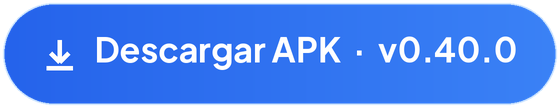
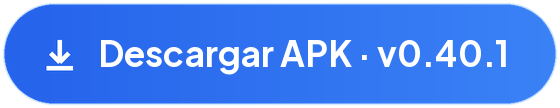
docs(readme): actualizar botón CTA a v0.40.1, novedades completas y guías enlazadas

Changed region(s): [[0.1518, 0.3333, 0.9411, 0.6944]]

diff --git a/README.md b/README.md
@@ -89,10 +89,11 @@ Las actualizaciones conservan los datos siempre que se mantengan el paquete `com
 
 | Área | Qué cambia |
 | --- | --- |
-| **Barra de direcciones, UI y Control del sitio** | Apertura de la barra de direcciones en 1 toque, optimizaciones de Liquid Glass, mejoras en Control del sitio y uso de APIs nativas de Cefrium 0.22.0 ([PR #86](https://github.com/stivencop-lab/Nexo-Browser/pull/86), [PR #87](https://github.com/stivencop-lab/Nexo-Browser/pull/87)). |
-| **Subtítulos en vivo más fiables** | La captura web solicita fragmentos cada 125 ms, conserva el texto parcial mientras llega el definitivo, añade botón **Reintentar** y permite activar la detección de hablantes desde los ajustes ([Guía de subtítulos](docs/DIAGNOSTICO-SUBTITULOS.md)). |
-| **Licencia Apache 2.0 y dependencias al día** | Adopción de **Apache License 2.0** ([PR #88](https://github.com/stivencop-lab/Nexo-Browser/pull/88)), actualización a Gradle `9.9.2`, AGP `9.5.3`, DataStore `1.3.0`, MaterialKolor `6.0.0`, Robolectric `4.18.1` y caché de CI. |
-| **Chromium 158 · Cefrium 0.22.0** | Base de `v0.40` verificada por GPG y SHA-256 ([`cefrium-0.22.0.sha256`](gradle/cefrium-0.22.0.sha256)) con **0 clases** de Google Play services, Firebase ni ML Kit, puente `cefriumQuery` sin polling, selector nativo de archivos y Client Hints completos. |
+| **Barra de direcciones en 1 toque y navegación** | Apertura fiable del teclado al primer toque (sin robo de foco de Chromium), objetivos táctiles ampliados, **historial atrás/adelante por pestaña** (pulsación larga en Atrás/Adelante), **Control del sitio** renovado con almacenamiento real por sitio (`listSiteData`) y optimizaciones de Liquid Glass ([PR #86](https://github.com/stivencop-lab/Nexo-Browser/pull/86), [PR #87](https://github.com/stivencop-lab/Nexo-Browser/pull/87)). |
+| **Subtítulos en vivo más fiables** | Captura web cada 125 ms con control de flujo WebM/Opus intacto, texto parcial conservado mientras llega el definitivo, detección opcional de cambios de hablante, botón **Reintentar** en la hoja rápida de CC y detección nativa de audio (`isPlayingAudio()`) ([Guía de subtítulos](docs/DIAGNOSTICO-SUBTITULOS.md)). |
+| **Acciones nativas de Cefrium 0.22.0** | Barra flotante al seleccionar texto (**Preguntar a Nexo AI**, **Traducir selección** y **Buscar en pestaña nueva** respetando privacidad/Burner), **impresión nativa** (`window.print()`), protección contra fugas WebRTC y alertas de proxy en **Burner**, y detector de pestaña bloqueada. |
+| **Licencia Apache 2.0, dependencias y CI** | Adopción de **Apache License 2.0** ([PR #88](https://github.com/stivencop-lab/Nexo-Browser/pull/88)), actualización a Gradle `9.9.2`, AGP `9.5.3`, DataStore `1.3.0`, MaterialKolor `6.0.0`, Robolectric `4.18.1` y caché de Gradle/Robolectric en GitHub Actions. |
+| **Base Chromium 158 · Cefrium 0.22.0** | Motor verificado por GPG y SHA-256 ([`cefrium-0.22.0.sha256`](gradle/cefrium-0.22.0.sha256)) con **0 clases** de Google Play services, Firebase ni ML Kit, puente `cefriumQuery` sin polling, selector nativo de archivos y Client Hints completos. |
 
 El informe técnico documenta cada cambio respecto al issue `#84`, las pruebas ejecutadas y los **16 límites/problemas verificados** que aún persisten en Cefrium `0.22.0`: [Migración y límites de Cefrium 0.22.0](docs/CEFRIUM-0.22-MIGRACION-Y-LIMITES.md)
 
@@ -180,7 +181,7 @@ El código propio de Nexo Browser se distribuye bajo **Apache License 2.0**. Cef
 
 | Tema | Guías |
 | --- | --- |
-| **v0.40.0 y Cefrium 0.22.0** | [Migración y límites verificados de Cefrium 0.22.0](docs/CEFRIUM-0.22-MIGRACION-Y-LIMITES.md), [Extension Hub](docs/NEXO-EXTENSION-HUB.md), [Arquitectura de Chromium nativo](docs/CHROMIUM-NATIVE-MIGRATION.md) |
+| **v0.40.x y Cefrium 0.22.0** | [Migración y límites verificados de Cefrium 0.22.0](docs/CEFRIUM-0.22-MIGRACION-Y-LIMITES.md), [Extension Hub](docs/NEXO-EXTENSION-HUB.md), [Arquitectura de Chromium nativo](docs/CHROMIUM-NATIVE-MIGRATION.md) |
 | **Interfaz y organización** | [Nexo UI 7.0 (referencia histórica)](docs/NEXO-UI-7.0-LIQUID-CRAFT.md), [Grupos, rutas y Burner](docs/PESTANAS-RED-BURNER.md) |
 | **Navegación y multimedia** | [PhantomShield](docs/PHANTOMSHIELD.md), [Traducción en página](docs/TRADUCCION-EN-LINEA.md), [Audio y estabilidad](docs/ESTABILIDAD-Y-AUDIO-ANDROID.md), [Diagnóstico de subtítulos](docs/DIAGNOSTICO-SUBTITULOS.md) |
 | **IA y datos** | [Nexo AI 5.1](docs/NEXO-AI-5.1.md), [Memoria IA local](docs/IA-MEMORIA.md), [Transferencia de perfil](docs/TRANSFERENCIA-PERFIL.md) |

diff --git a/docs/ACTUALIZACIONES-Y-FIRMA.md b/docs/ACTUALIZACIONES-Y-FIRMA.md
@@ -14,7 +14,7 @@ En Linux puedes verificar el archivo desde la carpeta de descargas.
 sha256sum --ignore-missing -c SHA256SUMS.txt
 ```
 
-En macOS, calcula el hash con `shasum -a 256 Nexo-v0.40.0-arm64-v8a.apk`. En PowerShell, usa `Get-FileHash -Algorithm SHA256 .\Nexo-v0.40.0-arm64-v8a.apk`. Sustituye el nombre del ejemplo por el de tu descarga y compara el resultado con su línea en `SHA256SUMS.txt`.
+En macOS, calcula el hash con `shasum -a 256 Nexo-v0.40.1-arm64-v8a.apk`. En PowerShell, usa `Get-FileHash -Algorithm SHA256 .\Nexo-v0.40.1-arm64-v8a.apk`. Sustituye el nombre del ejemplo por el de tu descarga y compara el resultado con su línea en `SHA256SUMS.txt`.
 
 ## Publicar una versión
 
@@ -42,7 +42,7 @@ La huella pública en [`config/android-signing-certificate.sha256`](../config/an
 python3 tools/verify_apk_signature.py \
   --apksigner "$ANDROID_HOME/build-tools/37.0.0/apksigner" \
   --certificate config/android-signing-certificate.sha256 \
-  /ruta/descargas/Nexo-v0.40.0-arm64-v8a.apk
+  /ruta/descargas/Nexo-v0.40.1-arm64-v8a.apk
 ```
 
 <details>

diff --git a/docs/CEFrium-CI-SETUP.md b/docs/CEFrium-CI-SETUP.md
@@ -8,7 +8,7 @@ Definidos en [`.github/workflows/main.yml`](../.github/workflows/main.yml):
 
 - **JDK 25** (`temurin` 25): el bytecode de `com.cefrium:cefrium-sdk-core:0.22.0` es Java 25 y el plugin `com.cefrium` comprueba la versión del compilador en cada tarea `JavaCompile`.
 - **Android SDK**: `platforms;android-37.2` para compilar, `build-tools;36.0.0` que selecciona AGP, `build-tools;37.0.0` para los verificadores del proyecto y `platform-tools` para ADB. La aplicación apunta a API 35 y requiere Android 10 o posterior (API 29).
-- **Gradle**: wrapper `9.8.2` (`gradle/wrapper/gradle-wrapper.properties`) con AGP `9.5.1` y Kotlin `2.4.10`.
+- **Gradle**: wrapper `9.9.2` (`gradle/wrapper/gradle-wrapper.properties`) con AGP `9.5.3` y Kotlin `2.4.10`.
 - **Node.js 20+**: ejecuta las regresiones JavaScript (`node --test app/src/test/js/*.test.cjs`) sin dependencias externas.
 - **Python 3**: valida reflexión en APKs R8 y la identidad del paquete.
 

diff --git a/docs/DIAGNOSTICO-SUBTITULOS.md b/docs/DIAGNOSTICO-SUBTITULOS.md
@@ -2,7 +2,7 @@
 
 Reproduce un video y toca **CC** para activar los subtítulos. Con CC activo, otro toque abre la hoja rápida para elegir idioma, cambiar qué texto se muestra o apagar los subtítulos. Mantén pulsado **CC** para abrir la configuración completa. También puedes abrirla desde **Configuración › Subtítulos en vivo › Configurar subtítulos y traducción**.
 
-La guía describe la rama `main`. La captura más frecuente, los cambios de hablante y el botón **Reintentar** se incorporaron después del APK publicado como `v0.40.0`. [Cambios de la PR #87](https://github.com/stivencop-lab/Nexo-Browser/pull/87)
+La captura más frecuente (125 ms), los cambios de hablante y el botón **Reintentar** están incluidos a partir de la versión firmada `v0.40.1`. [Cambios de la PR #87](https://github.com/stivencop-lab/Nexo-Browser/pull/87)
 
 ## Elegir la fuente
 
